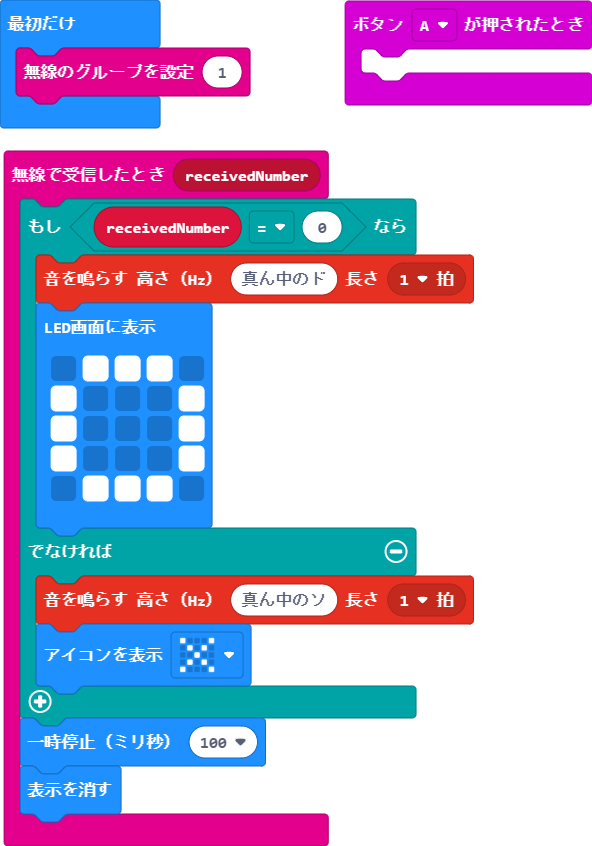
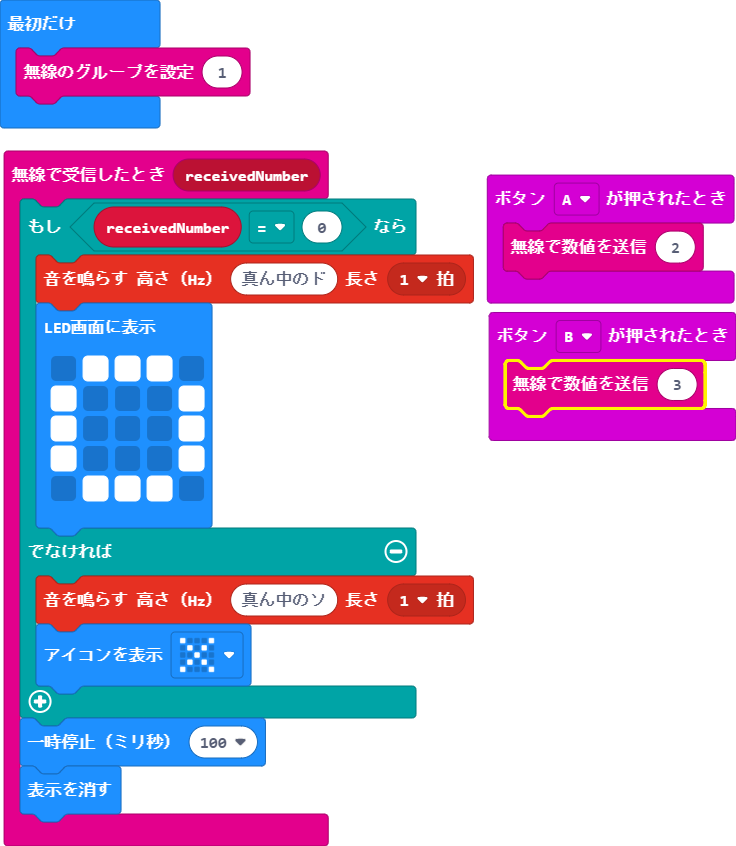
更新 main.blocks, main.ts

diff --git a/main.ts b/main.ts
@@ -16,6 +16,9 @@ radio.onReceivedNumber(function (receivedNumber) {
     basic.clearScreen()
 })
 input.onButtonPressed(Button.A, function () {
-	
+    radio.sendNumber(2)
+})
+input.onButtonPressed(Button.B, function () {
+    radio.sendNumber(3)
 })
 radio.setGroup(1)
